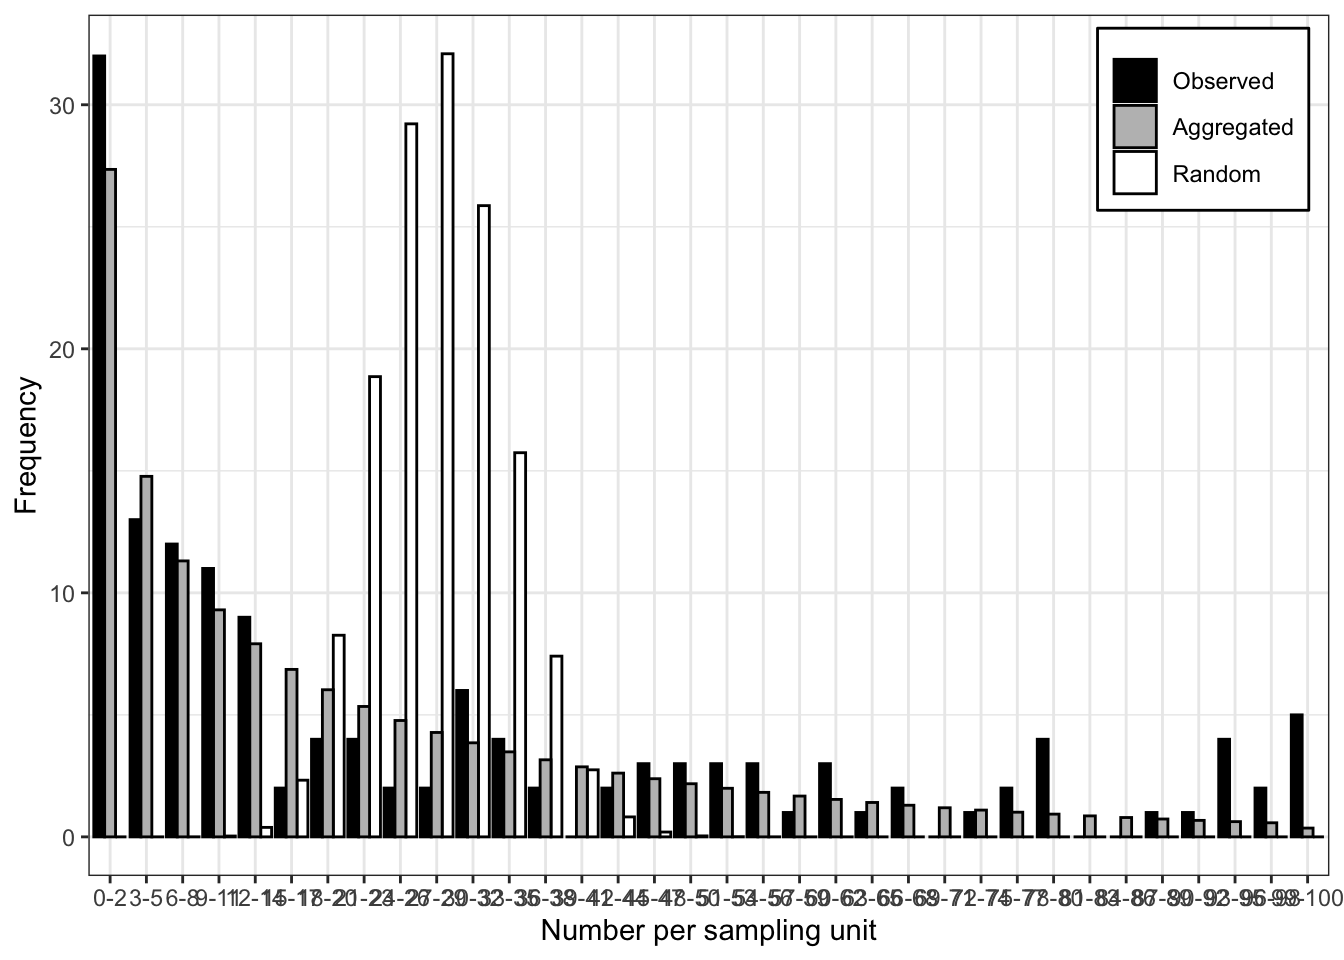
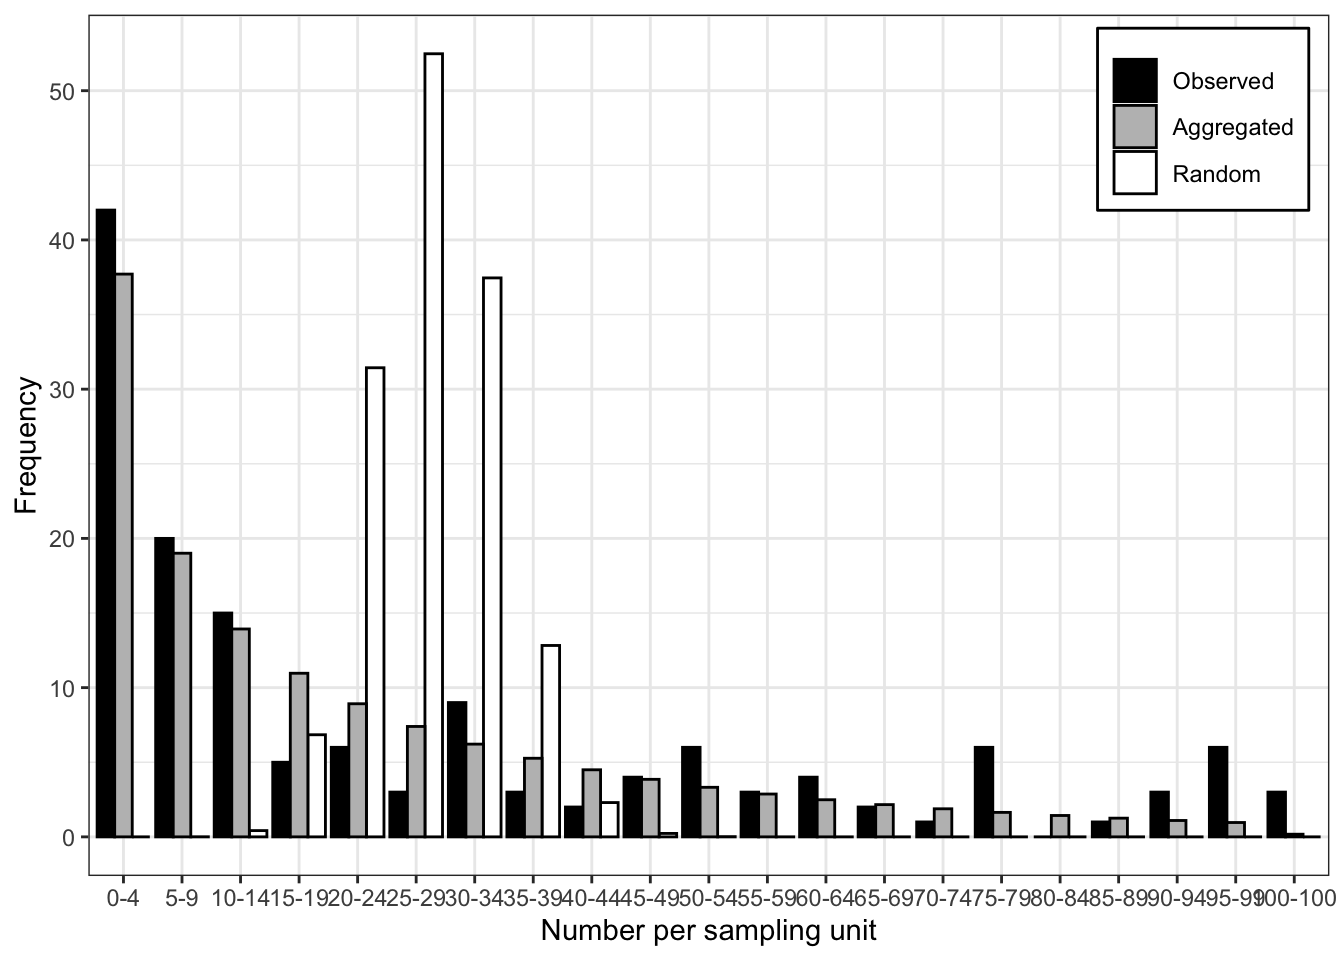
adjust plot fitdistr

diff --git a/_book/spatial-patterns.html b/_book/spatial-patterns.html
@@ -1036,20 +1036,20 @@ Number of permutations: 100</code></pre>
 </section>
 <section id="sparsely-sampled-data" class="level3" data-number="4.2.2">
 <h3 data-number="4.2.2" class="anchored" data-anchor-id="sparsely-sampled-data"><span class="header-section-number">4.2.2</span> Sparsely sampled data</h3>
-<p>Different from intensively mapped data, sparsely sampled data do not contain information about the spatial location of the units, and so not being taken into account in the analysis of the spatial patterns. The analysis of sparsely sampled data usually involve characterization of the extent of variability in the mean level of disease intensity per sampling unit <span class="citation" data-cites="chapter2017">(<a href="references.html#ref-chapter2017" role="doc-biblioref">Madden et al. 2017</a>)</span>. Also according to those authors, there are two types of approaches to analyse these data in the context of spatial patterns of plant disease epidemics: testing the goodness of fit to statistical probability distributions and calculating indices of aggregation. These will be discussed further separated depending on the nature of the data, whether count or incidence (proportion), for which specific distributions are assumed to describe the data.</p>
+<p>Different from intensively mapped data, sparsely sampled data do not contain information about the spatial location of the units, and so it is not taken into account in the analysis. The analysis of sparsely sampled data usually involves characterizing the extent of variability in the mean level of disease intensity per sampling unit <span class="citation" data-cites="chapter2017">(<a href="references.html#ref-chapter2017" role="doc-biblioref">Madden et al. 2017</a>)</span>. There are two types of approaches to analyse these data in the context of spatial patterns of plant disease epidemics: 1) testing the goodness of fit to statistical probability distributions and 2) calculating indices of aggregation. These will be discussed further separated depending on the nature of the data, whether count or incidence (proportion), for which specific distributions are assumed to describe the data.</p>
 <section id="count-data" class="level4" data-number="4.2.2.1">
 <h4 data-number="4.2.2.1" class="anchored" data-anchor-id="count-data"><span class="header-section-number">4.2.2.1</span> Count data</h4>
 <section id="fit-to-distributions" class="level5" data-number="4.2.2.1.1">
 <h5 data-number="4.2.2.1.1" class="anchored" data-anchor-id="fit-to-distributions"><span class="header-section-number">4.2.2.1.1</span> Fit to distributions</h5>
-<p>Two statistical distributions can be adopted as reference for the description of random or aggregated patterns of disease data in the form of counts of infection within sampling units. Take the count of lesions on a leaf as an example. If the presence of a lesion does not increase or decrease the chance that other lesions will occur, the <em>Poisson</em> distribution describes the distribution of lesions on the leaf. Otherwise, the <em>negative binomial</em> provides a better description.</p>
-<p>Let’s work with the previous simulation data of 144 quadrats with a variable count of diseased plants per quadrat (in a maximum of 100). Notice that we won’t consider the location of each quadrat as in the previous analyses of intensively mapped data. We only need the vector with the number of disease units per quadrat.</p>
-<p>The epiphy package provides a function called <code>fit_two_distr</code>, which allows fitting these two distribution for count data. In this case, either randomness assumption (Poisson distributions) or aggregation assumption (negative binomial) are made, and then, a goodness-of-fit comparison of both distributions is performed using a log-likelihood ratio test. The function requires a dataframe created using the <code>count</code> function where the number of infection units is designated as <code>i</code>. It won’t work with a single vector of numbers. We create the dataframe using:</p>
+<p>Two statistical distributions can be adopted as reference for the description of random or aggregated patterns of disease data in the form of counts of infection within sampling units. Take the count of lesions on a leaf, or the count of diseased plants on a quadrat, as an example. If the presence of a lesion/diseased plant does not increase or decrease the chance that other lesions/diseased plants will occur, the <em>Poisson</em> distribution describes the distribution of lesions on the leaf. Otherwise, the <em>negative binomial</em> provides a better description.</p>
+<p>Let’s work with the previous simulation data of 144 quadrats with a variable count of diseased plants per quadrat (in a maximum of 100). Notice that we won’t consider the location of each quadrat as in the previous analyses of intensively mapped data. We only need the vector with the number of infected units per sampling unit.</p>
+<p>The <em>epiphy</em> package provides a function called <code>fit_two_distr</code>, which allows fitting these two distribution for count data. In this case, either randomness assumption (Poisson distributions) or aggregation assumption (negative binomial) are made, and then, a goodness-of-fit comparison of both distributions is performed using a log-likelihood ratio test. The function requires a dataframe created using the <code>count</code> function where the number of infection units is designated as <code>i</code>. It won’t work with a single vector of numbers. We create the dataframe using:</p>
 <div class="cell">
 <div class="sourceCode" id="cb77"><pre class="sourceCode r cell-code code-with-copy"><code class="sourceCode r"><span id="cb77-1"><a href="#cb77-1" aria-hidden="true" tabindex="-1"></a>data_count <span class="ot">&lt;-</span> epi2 <span class="sc">|&gt;</span> </span>
 <span id="cb77-2"><a href="#cb77-2" aria-hidden="true" tabindex="-1"></a>  <span class="fu">mutate</span>(<span class="at">i =</span> n) <span class="sc">|&gt;</span>  <span class="co"># create i vector</span></span>
 <span id="cb77-3"><a href="#cb77-3" aria-hidden="true" tabindex="-1"></a>  epiphy<span class="sc">::</span><span class="fu">count</span>()   <span class="co"># create the map object of count class</span></span></code><button title="Copy to Clipboard" class="code-copy-button"><i class="bi"></i></button></pre></div>
 </div>
-<p>We can now run the function that will look fo the the vector `i`. The function returns a list of four components including the outputs of the fitting process for both distribution and the result of the log-likelihood ratio test, the <code>llr</code>.</p>
+<p>We can now run the function that will look fo the the vector <code>i</code>. The function returns a list of four components including the outputs of the fitting process for both distribution and the result of the log-likelihood ratio test, the <code>llr</code>.</p>
 <div class="cell">
 <div class="sourceCode" id="cb78"><pre class="sourceCode r cell-code code-with-copy"><code class="sourceCode r"><span id="cb78-1"><a href="#cb78-1" aria-hidden="true" tabindex="-1"></a>fit_data_count <span class="ot">&lt;-</span> <span class="fu">fit_two_distr</span>(data_count)</span>
 <span id="cb78-2"><a href="#cb78-2" aria-hidden="true" tabindex="-1"></a><span class="fu">summary</span>(fit_data_count)</span></code><button title="Copy to Clipboard" class="code-copy-button"><i class="bi"></i></button></pre></div>
@@ -1087,7 +1087,7 @@ Signif. codes:  0 '***' 0.001 '**' 0.01 '*' 0.05 '.' 0.1 ' ' 1</code></pre>
 </div>
 <p>The very low value of the P-value of the LLR test suggest that the negative binomial provides a better fit to the data. The <code>plot</code> function allows for visualizing the expected random and aggregated frequencies together with the observed frequencies. The number of breaks can be adjusted as indicated.</p>
 <div class="cell">
-<div class="sourceCode" id="cb82"><pre class="sourceCode r cell-code code-with-copy"><code class="sourceCode r"><span id="cb82-1"><a href="#cb82-1" aria-hidden="true" tabindex="-1"></a><span class="fu">plot</span>(fit_data_count, <span class="at">breaks =</span> <span class="dv">3</span>) </span></code><button title="Copy to Clipboard" class="code-copy-button"><i class="bi"></i></button></pre></div>
+<div class="sourceCode" id="cb82"><pre class="sourceCode r cell-code code-with-copy"><code class="sourceCode r"><span id="cb82-1"><a href="#cb82-1" aria-hidden="true" tabindex="-1"></a><span class="fu">plot</span>(fit_data_count, <span class="at">breaks =</span> <span class="dv">5</span>) </span></code><button title="Copy to Clipboard" class="code-copy-button"><i class="bi"></i></button></pre></div>
 <div class="cell-output-display">
 <p><img src="spatial-patterns_files/figure-html/unnamed-chunk-100-1.png" class="img-fluid" width="672"></p>
 </div>
